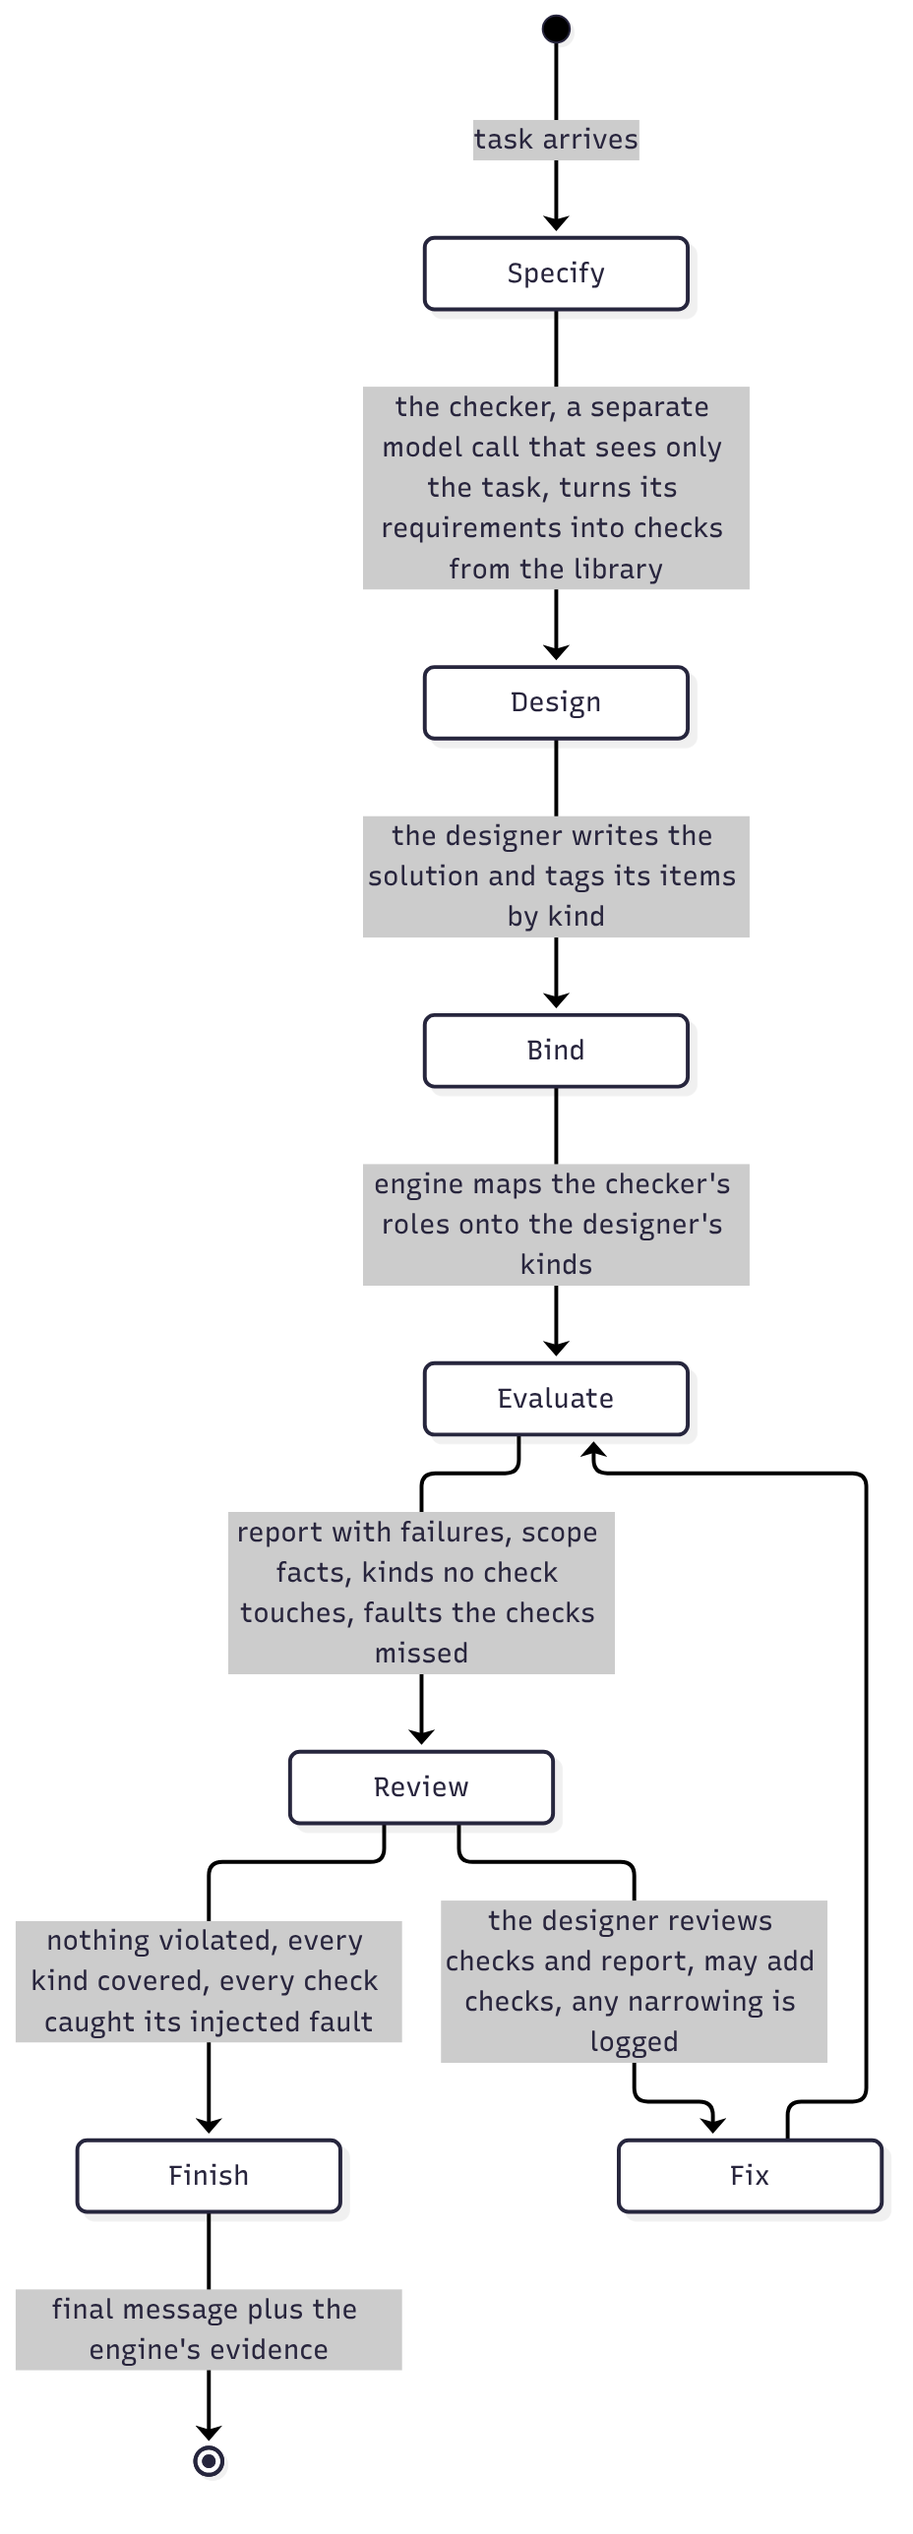
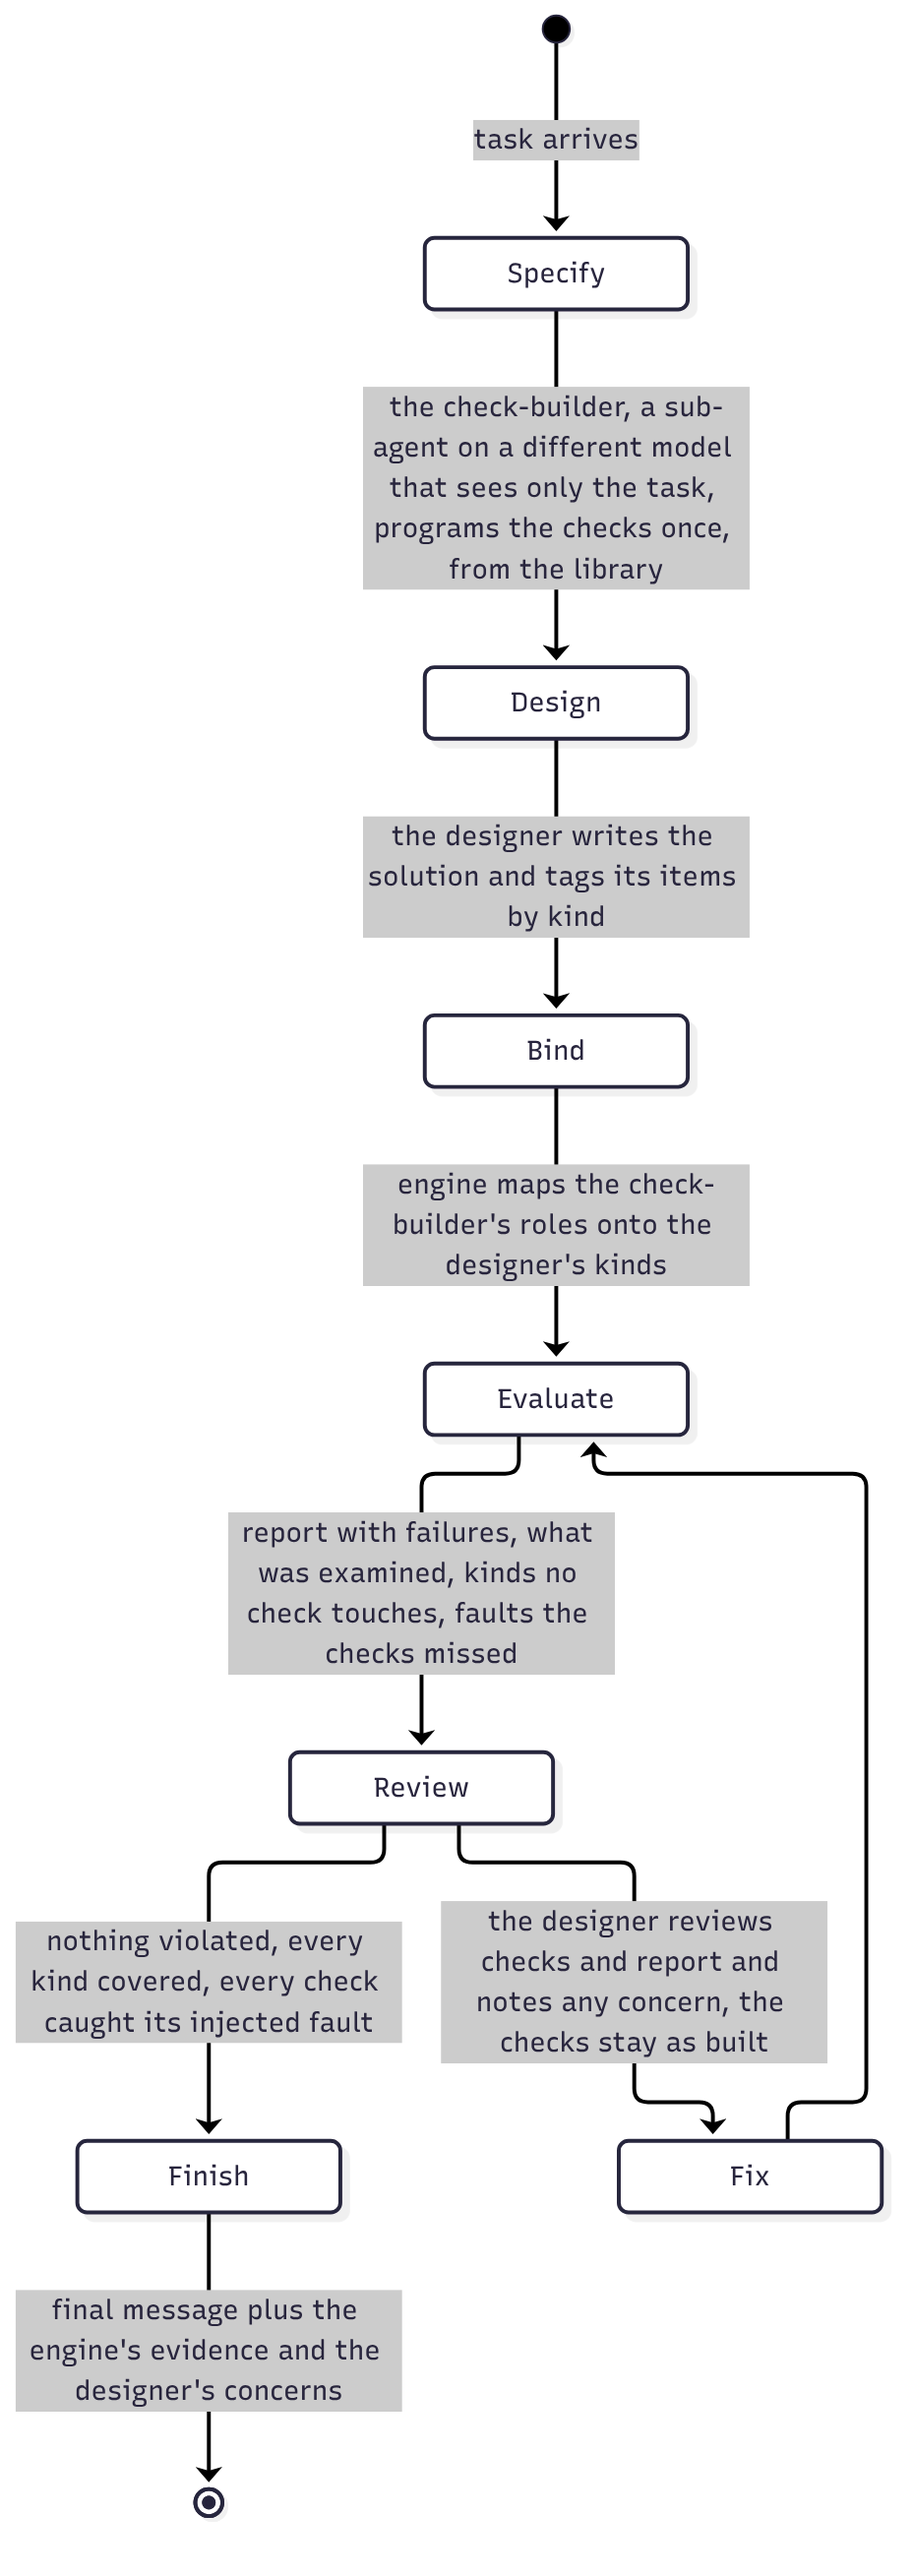
Rung 3: check-builder sub-agent (different model, runs once, fixed checks), library plus custom checks, budget 40; open question on a second model and the rules
Claude-Session: https://claude.ai/code/session_01VAXg1Rv3qVZL8ddUfUoGP9

diff --git a/docs/architecture-rung3.md b/docs/architecture-rung3.md
@@ -1,8 +1,8 @@
-# Rung 3: a robust engine, a checker that never sees the design, and a designer who reviews (revised 2026-11-27)
+# Rung 3: a robust engine, a check-builder that never sees the design, and a designer who reviews (revised 2026-11-27)
 
 Status: **design, for agreement. Nothing is built.** Figures: `docs/figures/fig4-structured-workflow.png` (workflow) and `fig5-structured-architecture.png` (parts).
 
-**Revision note.** The first draft validated requirements by checking that the agent's quotes appear in the task and made exemptions depend on a quoted source. Rejected (user): a quote is text, and text can be written to satisfy a rule. Nothing in this design depends on the agent being truthful about itself. The mechanisms are (1) an engine whose defaults are strict and whose reports are facts it computed, (2) a checker that is not the designer and never sees the design, and (3) a review by the designer of facts, not claims.
+**Revision note.** The first draft validated requirements by checking that the agent's quotes appear in the task and made exemptions depend on a quoted source. Rejected (user): a quote is text, and text can be written to satisfy a rule. Nothing in this design depends on the agent being truthful about itself. The mechanisms are (1) an engine whose defaults are strict and whose reports are facts it computed, (2) a check-builder that is not the designer and never sees the design, and (3) a review by the designer of facts, not claims.
 
 ## What the analysis asks of the tooling
 
@@ -19,9 +19,9 @@ The agent reads well, lists the requirements, and fixes what its checks report (
 - **Objective tracker:** route length by group and total, and the change against the previous and the best evaluation.
 - **Robustness is a requirement of its own:** unit tests for touching against overlapping (the 2 mm tolerance edge), identical boxes, empty groups, thousands of items; fast pair search; explicit units; no hidden state between evaluations.
 
-**2. The checker (a separate model call).** Before the design exists, the harness calls the model once, with fresh context: the task text, the library's catalogue and the configuration schema, and nothing else. It returns a configuration: for each requirement it finds, which library check, over which roles ("any solid", "route segments", "sprinkler heads"), with which numbers. It never sees the design, the drawings' content or the designer's notes. The hypothesis it tests: the exclusion of same-service pieces came from the designer's context (it knows its segments overlap at joints), not from the model's reading of the rule, so a checker without that context will not write it. If the checker writes it anyway, the belief is the model's own and the engine's strict default and fault self-test are what remain.
+**2. The check-builder (a sub-agent on a different model).** Before the design exists, the harness calls the model once, with fresh context: the task text, the library's catalogue and the configuration schema, and nothing else. It returns a configuration: for each requirement it finds, which library check, over which roles ("any solid", "route segments", "sprinkler heads"), with which numbers. It never sees the design, the drawings' content or the designer's notes. The hypothesis it tests: the exclusion of same-service pieces came from the designer's context (it knows its segments overlap at joints), not from the model's reading of the rule, so a check-builder without that context will not write it. If the check-builder writes it anyway, the belief is the model's own and the engine's strict default and fault self-test are what remain.
 
-**3. The designer (the main agent).** It reads the drawings, builds the solution, exposes its items, **binds** the checker's roles to its item kinds, evaluates, and then **reviews**: it reads the checker's configuration and the report, and may amend (add, tighten, or narrow a check). Every amendment, and above all every narrowing, is recorded by the engine and printed in the report and in the final evidence. The designer is not stopped from narrowing a check; it cannot do so unseen.
+**3. The designer (the main agent).** It reads the drawings, builds the solution, exposes its items, **binds** the check-builder's roles to its item kinds, evaluates, and then **reviews**: it reads the check-builder's configuration and the report, and may amend (add, tighten, or narrow a check). Every amendment, and above all every narrowing, is recorded by the engine and printed in the report and in the final evidence. The designer is not stopped from narrowing a check; it cannot do so unseen.
 
 ## The workflow (fig 4)
 
@@ -29,33 +29,43 @@ Specify (checker) then Design then Bind then Evaluate then Review then Fix and E
 
 ## The model contract (until the ifcopenshell rung)
 
-`solution.py` exposes `model_items()`: a list of `{id, kind, group, aabb: [x0, y0, z0, x1, y1, z1], attrs}` in millimetres (the boxes it would extrude into IFC solids). The engine tests the plan, not the built solids (finding 3 of the failure analysis); when the agent may run ifcopenshell, the engine reads the produced IFC and the contract disappears. Roles the checker names are bound to kinds by the designer; the engine lists any role with no kind and any kind in no role.
+`solution.py` exposes `model_items()`: a list of `{id, kind, group, aabb: [x0, y0, z0, x1, y1, z1], attrs}` in millimetres (the boxes it would extrude into IFC solids). The engine tests the plan, not the built solids (finding 3 of the failure analysis); when the agent may run ifcopenshell, the engine reads the produced IFC and the contract disappears. Roles the check-builder names are bound to kinds by the designer; the engine lists any role with no kind and any kind in no role.
 
 ## General and specific
 
-- **General:** the engine's strictness rules, scope facts, self-test, objective tracker, evidence block, the checker/designer split.
+- **General:** the engine's strictness rules, scope facts, self-test, objective tracker, evidence block, the check-builder/designer split.
 - **Geometry pack:** the library's check types (this task needs them first; other tasks need other packs: numeric formulas, documents).
-- **Nothing of this task is built in:** no thresholds, kinds, names or dimensions. The numbers reach the engine through the checker's configuration, read from the task text.
+- **Nothing of this task is built in:** no thresholds, kinds, names or dimensions. The numbers reach the engine through the check-builder's configuration, read from the task text.
 
 ## What it will not do
 
-Know the real score, find a rule the task does not state (two grader rules are not in the task text), make the agent read a drawing correctly, test built solids, or stop a checker from sharing the designer's model-level prior. It narrows the ways a wrong check can survive; it does not close them.
+Know the real score, find a rule the task does not state (two grader rules are not in the task text), make the agent read a drawing correctly, test built solids, or stop a check-builder from sharing the designer's model-level prior. It narrows the ways a wrong check can survive; it does not close them.
 
 ## The experiment
 
-Rung 3 v1 (checker + engine + review) against rung 2 v3 (same task, Neon, ifcopenshell blocked, six runs each). Read: pass rate; whether the checker's configuration compares same-service pieces (the central test); whether the engine's final report agrees with the grader; amendments the designer made and whether any narrowed a check; calls, tokens, minutes. Then one ablation at a time: the engine with strict defaults but **no checker** (the designer configures its own checks), to separate the two effects; and without the self-test.
+Rung 3 v1 (checker + engine + review) against rung 2 v3 (same task, Neon, ifcopenshell blocked, six runs each). Read: pass rate; whether the check-builder's configuration compares same-service pieces (the central test); whether the engine's final report agrees with the grader; amendments the designer made and whether any narrowed a check; calls, tokens, minutes. Then one ablation at a time: the engine with strict defaults but **no checker** (the designer configures its own checks), to separate the two effects; and without the self-test.
 
 ## Risks
 
 1. **The engine disagrees with the grader** (boxes against exact solids; tolerance). Report the margin and the count, compare per run.
-2. **The checker repeats the designer's prior.** Then the strict default and the self-test carry the result; the experiment shows it.
-3. **The checker's roles do not fit the designer's kinds.** The binding step shows the gaps; budget a round to resolve them.
+2. **The check-builder repeats the designer's prior.** Then the strict default and the self-test carry the result; the experiment shows it.
+3. **The check-builder's roles do not fit the designer's kinds.** The binding step shows the gaps; budget a round to resolve them.
 4. **More tools, more calls.** Budget 60; short tool descriptions; report ordered by what to fix first.
 5. **Over-fitting to this task.** Core and packs stay task-free; a second spatial task of the development set is the test.
 
-## Decisions needed before building
+## Decisions taken (user, 2026-11-27)
 
-1. The checker runs once, before the design, from the task text only (recommended), or again after the design with the item list?
-2. The designer may amend checks, with every amendment and narrowing logged and shown (recommended), or is the checker's configuration fixed?
-3. Library plus a custom-check escape hatch (recommended), or library only?
-4. Call budget 60?
+1. **Name:** it is a sub-agent that **programs the checks**: the check-builder, not "the checker".
+2. **Runs once, before the design, from the task text and the library only.** Simple first; something richer later (for example a second pass once the design exists).
+3. **The checks are fixed after the check-builder sets them up.** The designer reviews the checks and the report and may record a concern; the concern is shown in the evidence block; it does not change the checks. (This replaces the amend-and-log idea: simpler; the cost is that a wrong check cannot be repaired inside a run, which we will see in the reports.)
+4. **Library plus custom checks:** a library-only design is too restrictive.
+5. **Budget: 40 calls for the designer** (as in rung 2) rather than 60; the check-builder's calls are counted and reported separately (expected 1 to 3).
+6. **Sub-agents always run on a different model from the designer.** Open point below.
+
+## Open point: a second model and the competition's rules
+
+The competition states that the declared `model_api` must match the model the harness calls, and ranks "each harness + model pair together". A sub-agent on a different model may not be allowed in an entry that is submitted, even though the serve container reaches the whole sponsored-model endpoint with one key. Until the organizers' text is read (a read-only lookup of `docs/rules.md` is running), the design assumes: **experiments locally may use a different model for the check-builder; a submitted entry might have to use the same model with a fresh context.** The code takes the check-builder's model as a setting, so either is one line. Which different model: for a Neon designer, Gemini 3.1 Pro (preview) is the default (one short call, small cost); Gemini 3.8 Flash is the cheap ablation.
+
+## What gets built first
+
+1. The engine and its unit tests (library, evaluator, strictness, scope facts, self-test, objective tracker); 2. the check-builder call (prompt, schema validation, retry on a rejected configuration); 3. the Pi tools for the designer (`bind_roles`, `evaluate`, `note_concern`) and the contract `model_items()`; 4. the system note; 5. a first run of six Neon runs against rung 2 v3.

diff --git a/docs/figures.md b/docs/figures.md
@@ -33,10 +33,10 @@ finish, stops the agent, and sends an honest note as the final message. Either w
 
 ![The structured workflow](figures/fig4-structured-workflow.png)
 
-A checker (a separate model call that sees only the task) turns the requirements into checks from a prepopulated library before the design exists. The designer builds, binds the checker's roles to its own item kinds, evaluates, and reviews. The engine's report is made of facts it computed: failures, what was examined, which kinds no check touches, which checks missed an injected fault. Any narrowing of a check by the designer is logged and shown.
+A check-builder (a sub-agent on a different model that sees only the task) programs the checks once, from a prepopulated library, before the design exists. The designer builds, binds the check-builder's roles to its own item kinds, evaluates, and reviews; the checks stay as built. The engine's report is made of facts it computed: failures, what was examined, which kinds no check touches, which checks missed an injected fault. The designer's concerns are recorded and shown with the engine's evidence.
 
 ## Figure 5. The parts of the structured workflow (proposed)
 
 ![The parts of the structured workflow](figures/fig5-structured-architecture.png)
 
-The engine (check library and evaluation) runs in the serve container, outside the task container and outside the agent's code. Strict defaults, scope facts, an injected-fault self-test and an objective tracker; the designer cannot make it skip a pair unseen, and the checker never sees the design.
+The engine (check library and evaluation) runs in the serve container, outside the task container and outside the agent's code. Strict defaults, scope facts, an injected-fault self-test and an objective tracker; the designer cannot make it skip a pair, and the check-builder never sees the design.

diff --git a/docs/design-decisions.md b/docs/design-decisions.md
@@ -774,3 +774,11 @@ declared), scope facts, an injected-fault self-test and an objective tracker; (2
 the check configuration before the design exists; (3) the **designer** (main agent) binds roles to its item kinds, evaluates and reviews, may amend checks, with every
 narrowing logged and shown; the harness appends an evidence block to the final message. Nothing depends on the agent being truthful about itself. Four decisions open;
 not built.
+
+### Rung 3 decisions taken (2026-11-27, user)
+
+The sub-agent is the **check-builder** (it programs the checks); it runs **once**, before the design, from the task text and the library; the checks are **fixed** afterwards (the
+designer reviews and may record a concern, shown in the evidence block); library **plus custom checks**; designer budget **40** calls (check-builder calls counted
+separately); **sub-agents always run on a different model** from the designer. Open: the competition says the declared `model_api` must match the model the harness calls, so
+a submitted entry may not be allowed a second model; a read-only lookup of the organizers' `docs/rules.md` is running. Local experiments may use a different model; the
+setting is one line.
